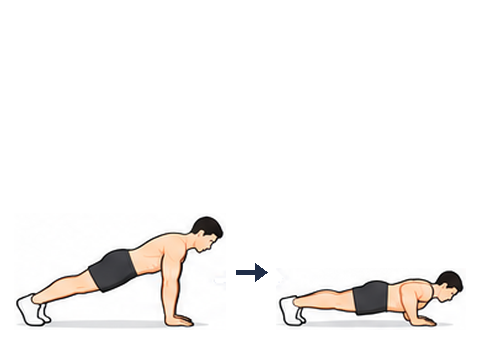
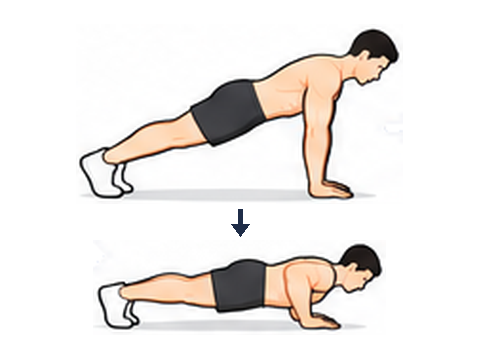
PT: 코어 6개 운동 일러스트 적용, 푸시업 그림 크게(위아래 배치)
Claude-Session: https://claude.ai/code/session_01HyqpVNC1dVLmfuWaBKFU4g

Changed region(s): [[0.0312, 0.0611, 0.9688, 0.9167]]

diff --git a/pt.html b/pt.html
@@ -276,7 +276,7 @@ const EX=[
   {id:'burpee',name:'버피',part:'전신',eq:'맨몸',lv:'중급',cardio:true,mus:[m('대퇴사두근',60,'보조'),m('대흉근',50,'보조')],pts:['푸시업 자세에서 일어나 점프','착지할 때 무릎을 살짝 굽혀요']}
 ];
 // 전용 일러스트가 있는 운동은 그림 파일(시작 → 끝 자세)을 보여 줘요. public/pt-img/<id>.png
-const PIMG=new Set(['squat','rdl','deadlift','goblet','legpress','lunge','bss','legext','legcurl','hipthrust','abduction','calfraise','bench','incline','dbfly','chestpress','cablecross','pushup','dips','pulldown','pullup','row','onearmrow','seatedrow','backext','ohp','dbshoulder','lateral','reardelt','facepull','curl','hammer','pushdown','ohtricep']);
+const PIMG=new Set(['squat','rdl','deadlift','goblet','legpress','lunge','bss','legext','legcurl','hipthrust','abduction','calfraise','bench','incline','dbfly','chestpress','cablecross','pushup','dips','pulldown','pullup','row','onearmrow','seatedrow','backext','ohp','dbshoulder','lateral','reardelt','facepull','curl','hammer','pushdown','ohtricep','plank','sideplank','crunch','deadbug','russian','legraise']);
 const figOf=(e,w,h)=>PIMG.has(e.id)?'<img class="pimg" src="/pt-img/'+e.id+'.png" width="'+(w||120)+'" height="'+(h||90)+'" alt="'+esc(e.name)+' 시작 자세와 끝 자세" loading="lazy" decoding="async">':svg(FIG[e.fig||PARTFIG[e.part]]||FIG.squat,w,h);
 
 /* ---------- 기본 ---------- */

diff --git a/src/pt.html b/src/pt.html
@@ -276,7 +276,7 @@ const EX=[
   {id:'burpee',name:'버피',part:'전신',eq:'맨몸',lv:'중급',cardio:true,mus:[m('대퇴사두근',60,'보조'),m('대흉근',50,'보조')],pts:['푸시업 자세에서 일어나 점프','착지할 때 무릎을 살짝 굽혀요']}
 ];
 // 전용 일러스트가 있는 운동은 그림 파일(시작 → 끝 자세)을 보여 줘요. public/pt-img/<id>.png
-const PIMG=new Set(['squat','rdl','deadlift','goblet','legpress','lunge','bss','legext','legcurl','hipthrust','abduction','calfraise','bench','incline','dbfly','chestpress','cablecross','pushup','dips','pulldown','pullup','row','onearmrow','seatedrow','backext','ohp','dbshoulder','lateral','reardelt','facepull','curl','hammer','pushdown','ohtricep']);
+const PIMG=new Set(['squat','rdl','deadlift','goblet','legpress','lunge','bss','legext','legcurl','hipthrust','abduction','calfraise','bench','incline','dbfly','chestpress','cablecross','pushup','dips','pulldown','pullup','row','onearmrow','seatedrow','backext','ohp','dbshoulder','lateral','reardelt','facepull','curl','hammer','pushdown','ohtricep','plank','sideplank','crunch','deadbug','russian','legraise']);
 const figOf=(e,w,h)=>PIMG.has(e.id)?'<img class="pimg" src="/pt-img/'+e.id+'.png" width="'+(w||120)+'" height="'+(h||90)+'" alt="'+esc(e.name)+' 시작 자세와 끝 자세" loading="lazy" decoding="async">':svg(FIG[e.fig||PARTFIG[e.part]]||FIG.squat,w,h);
 
 /* ---------- 기본 ---------- */
